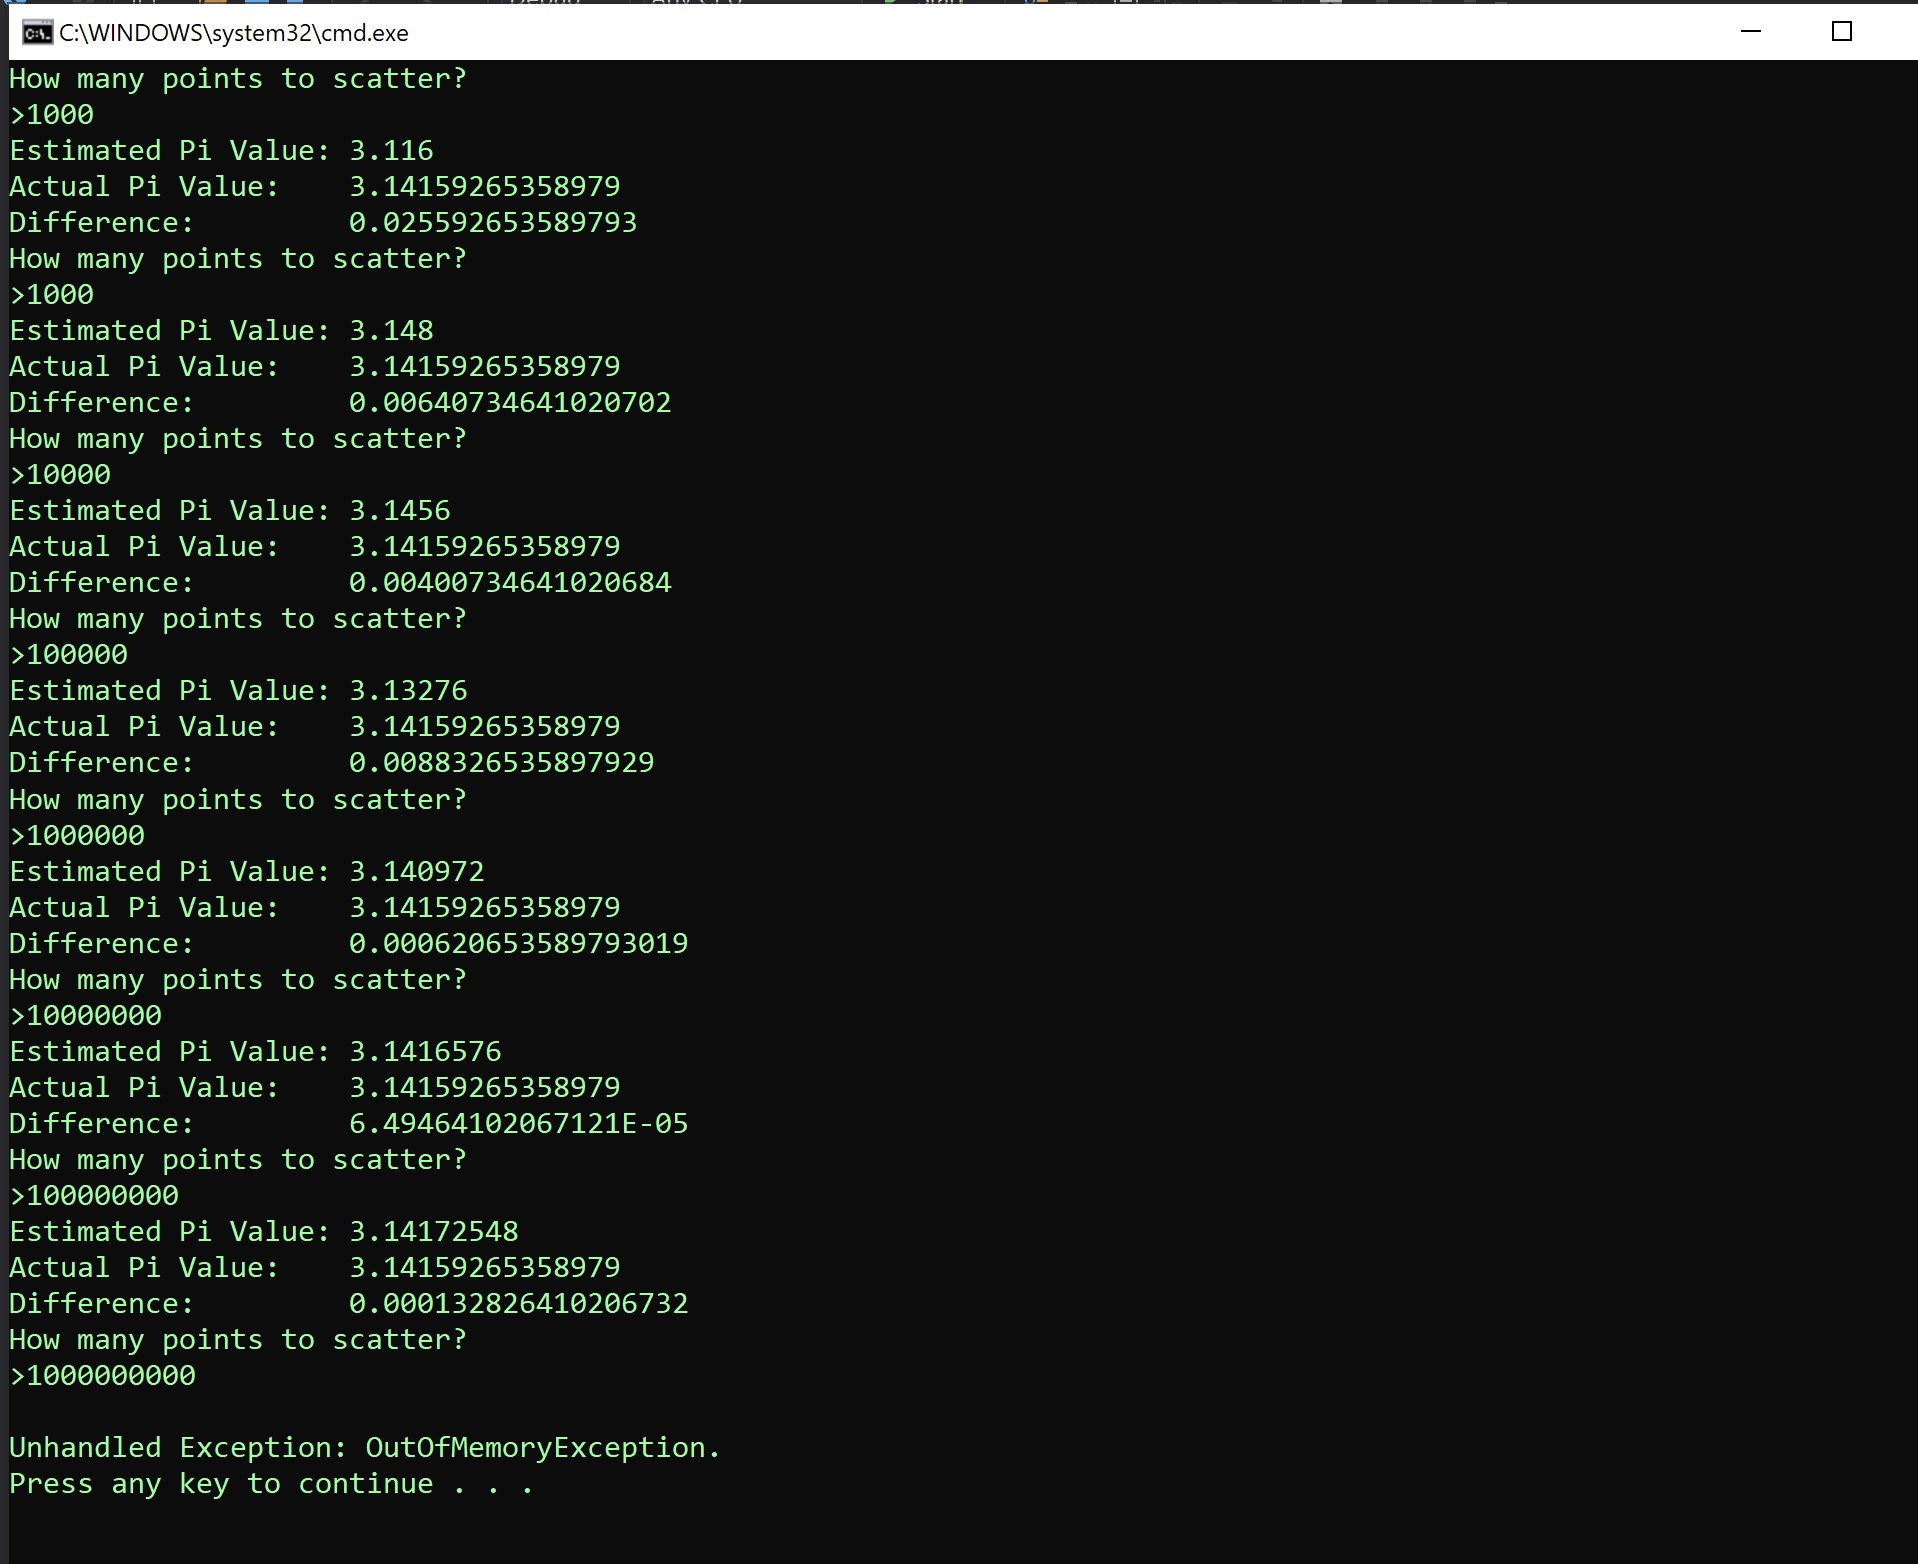
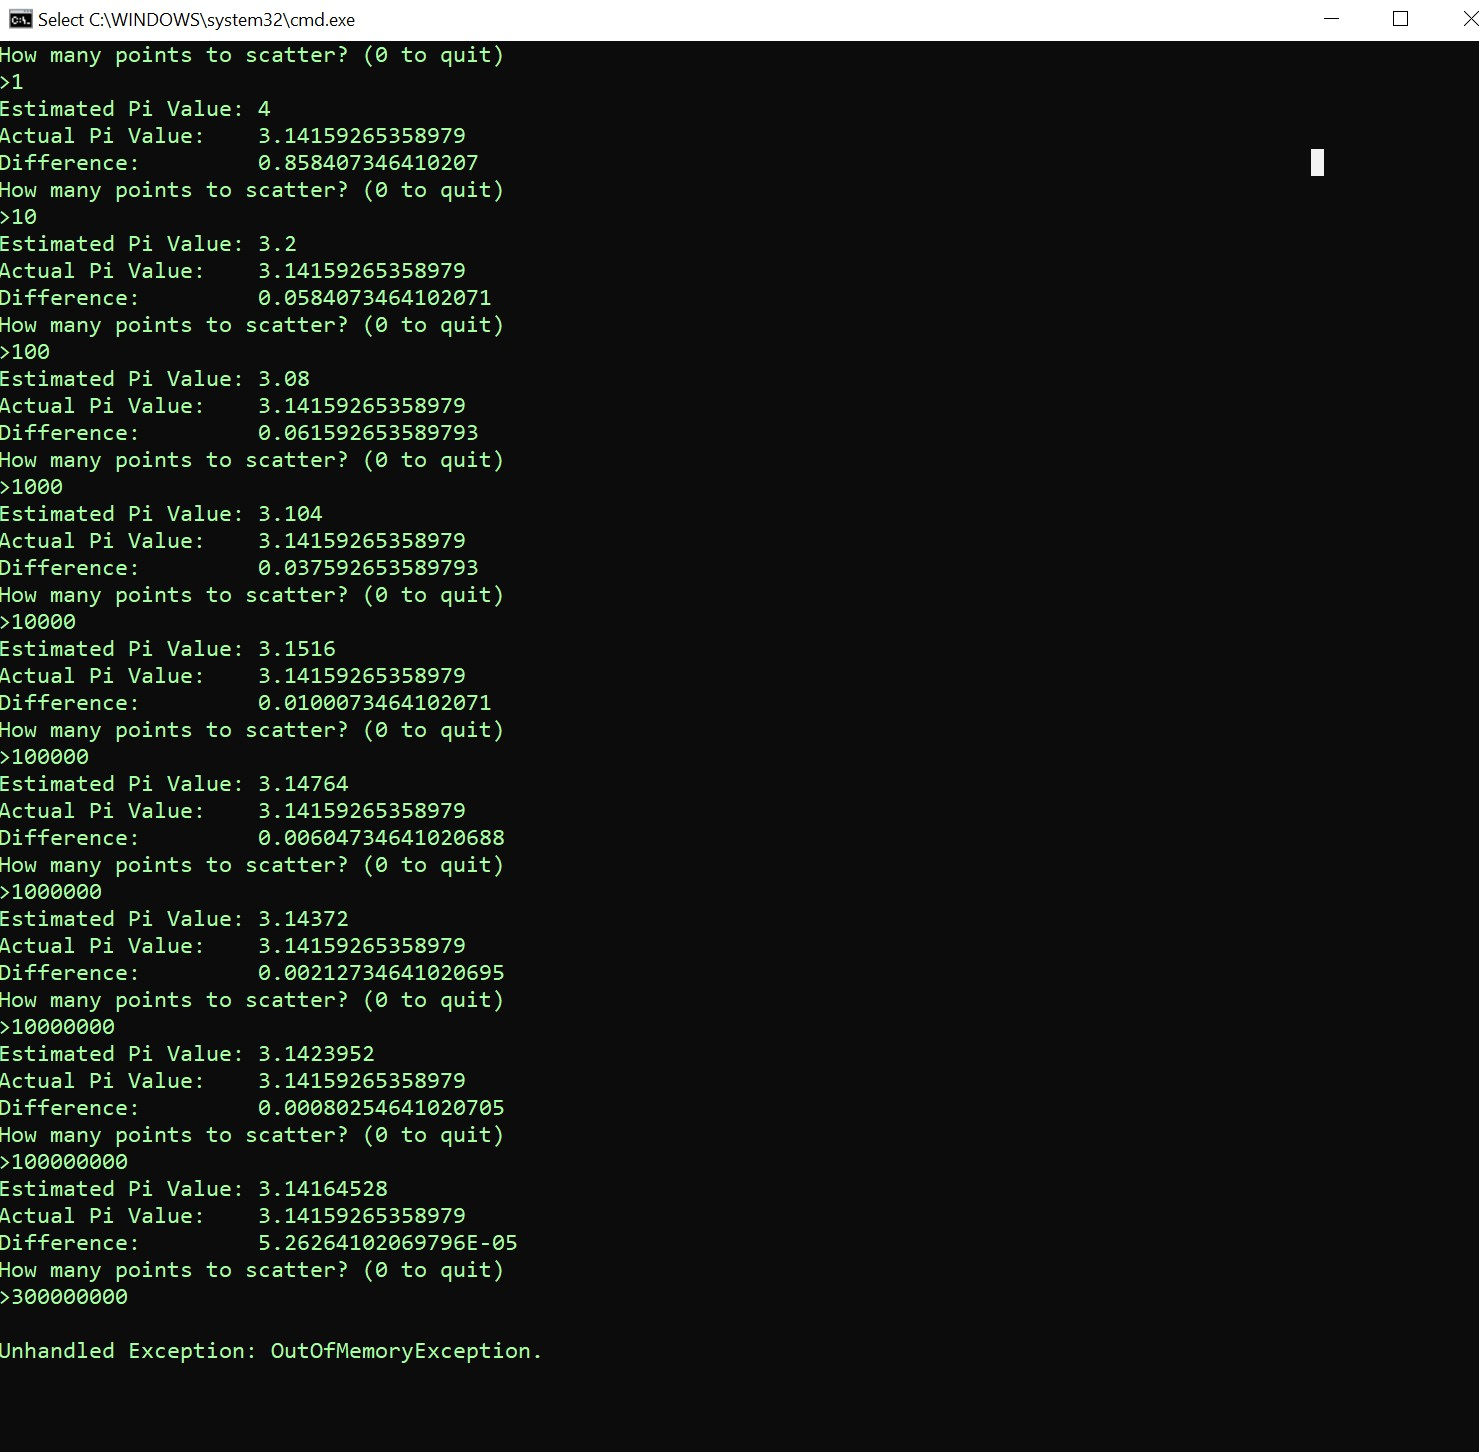
added IEnumerableApproach

Changed region(s): [[0.0, 0.0, 1.0, 1.0], [0.8709, 0.093, 0.902, 0.124]]

diff --git a/PiCalculation/Program.cs b/PiCalculation/Program.cs
@@ -1,8 +1,10 @@
 using System;
 using System.Collections.Generic;
+using System.Diagnostics;
 using System.Linq;
 using System.Text;
 using System.Threading.Tasks;
+using System.Numerics;
 
 namespace PiCalculation
 {
@@ -24,6 +26,8 @@ namespace PiCalculation
             List<string> calculationMethods = new List<string>();
             calculationMethods.Add("Naïve approach (O(N) time, O(N) space: Array N created and iterated)");
             calculationMethods.Add("Space improved (O(N) time, O(1) space)");
+            calculationMethods.Add("Recursion approach (O(N) time, O(N) space, stackoverflow)");
+            calculationMethods.Add("IEnumerable approach (O(N) time, O(1) space)");
             do
             {
                 Console.Clear();
@@ -32,27 +36,6 @@ namespace PiCalculation
 
             } while (!End);
         }
-
-        private static void NaiveApproach()
-        {
-            Console.Clear();
-            //takes one int parameter from the command line and creates an array of that 
-            //length containing randomly initialized coordinates.
-            int numPoints = UI.AcceptValidInt("How many points to scatter?\n>", 1);
-
-            Random rnd = new Random();
-            XYCoord[] points = new XYCoord[numPoints];
-            for (int i = 0; i < numPoints; ++i)
-            {
-                points[i] = new XYCoord(rnd);
-            }
-            //Iterate over the array, incrementing a counter for each coordinate which overlaps the unit circle.
-            double estimatePi = points.Count(p => hypotenuse(p) < 1.0) / (double)numPoints * 4;
-            Console.WriteLine($"Estimated Pi Value: {estimatePi}\n" +
-                              $"Actual Pi Value:    {Math.PI}\n" +
-                              $"Difference:         {Math.Abs(estimatePi - Math.PI)}");
-        }
-
         private static bool HandleSelection(int selected)
         {
             switch (selected)
@@ -60,7 +43,23 @@ namespace PiCalculation
                 case -1:
                     return true;
                 case 0:
+                    Console.Clear();
                     NaiveApproach();
+                    return false;
+                    break;
+                case 1:
+                    Console.Clear();
+                    SpaceSavingApproach();
+                    return false;
+                    break;
+                case 2:
+                    Console.Clear();
+                    RecursionApproach();
+                    return false;
+                    break;
+                case 3:
+                    Console.Clear();
+                    IEnumerableApproach();
                     return false;
                     break;
                 default:
@@ -69,5 +68,206 @@ namespace PiCalculation
             }
 
         }
+
+        private static void IEnumerableApproach()
+        {
+            do
+            {
+                //takes one int parameter from the command line and creates an array of that 
+                //length containing randomly initialized coordinates.
+                Console.Write("Enter how many points per step to print:  \n>");
+                //long numPoints = long.Parse(Console.ReadLine());
+                int step = int.Parse(Console.ReadLine());
+                // Create new stopwatch.
+                Stopwatch stopwatch = new Stopwatch();
+                try
+                {
+                    Random rnd = new Random();
+                    stopwatch.Start();
+
+                    IEnumerable<long> GenerateInsideCount(long n)
+                    {
+                        long inside = 0;
+                        for (long i=0; i<n; ++i)
+                        {
+                            if (hypotenuse(new XYCoord(rnd)) < 1) inside++;
+                            yield return inside;
+                        }
+                    }
+
+                    IEnumerable<(long,long)> GenerateInsideCountAndTotal()
+                    {
+                        long inside = 0;
+                        long total = 0;
+                        while (true)
+                        {
+                            if (hypotenuse(new XYCoord(rnd)) < 1) inside++;
+                            total++;
+                            yield return (inside,total);
+                        }
+                    }
+
+                    int tempcount = 0;
+                    var enumerator = GenerateInsideCountAndTotal().GetEnumerator();
+                    while (enumerator.MoveNext())
+                    {
+                        tempcount++;
+                        if (tempcount==step)
+                        {
+                           double estimatePi = (double)enumerator.Current.Item1 / enumerator.Current.Item2 *4;
+                            //Console.WriteLine(enumerator.Current);
+                           Console.WriteLine($"Estimated Pi Value: {estimatePi}\n" +
+                                             $"Actual Pi Value:    {Math.PI}\n" +
+                                             $"Difference:         {Math.Abs(estimatePi - Math.PI)}\n" +
+                                             $"Elasped time:       {stopwatch.Elapsed.TotalSeconds} seconds\n" +
+                                             $"Points Generated:   {enumerator.Current.Item2}\n" +
+                                             $"================================================================");
+                           tempcount = 0;
+                        }
+                    }
+                    //double ratio = GenerateInsideCount(numPoints).Last() / (double)numPoints;
+                   
+                    /*double estimatePi = ratio * 4;
+
+                    //stop the timer
+                    stopwatch.Stop();
+
+                    Console.WriteLine($"Estimated Pi Value: {estimatePi}\n" +
+                                      $"Actual Pi Value:    {Math.PI}\n" +
+                                      $"Difference:         {Math.Abs(estimatePi - Math.PI)}\n" +
+                                      $"Elasped time:       {stopwatch.Elapsed.TotalMilliseconds} ms");*/
+                }
+                catch (OutOfMemoryException e)
+                {
+                    Console.WriteLine(e.GetType().ToString());
+                }
+            } while (true);
+        }
+
+        private static void RecursionApproach()
+        {
+            do
+            {
+                //takes one int parameter from the command line and creates an array of that 
+                //length containing randomly initialized coordinates.
+                long numPoints = 5000;
+                // Create new stopwatch.
+                Stopwatch stopwatch = new Stopwatch();
+                try
+                {
+                    Random rnd = new Random();
+                    stopwatch.Start();
+
+                    double getratio(long inside, long total, long index)
+                    {
+                        if (index == 0) return (double)inside / total;
+                        else return getratio(inside += (hypotenuse(new XYCoord(rnd)) < 1 ? 1 : 0), total, --index);
+                    }
+
+                    //Iterate over the array, incrementing a counter for each coordinate which overlaps the unit circle.
+                    double estimatePi = getratio(0,numPoints,numPoints) * 4;
+
+                    //stop the timer
+                    stopwatch.Stop();
+
+                    Console.WriteLine($"Estimated Pi Value: {estimatePi}\n" +
+                                      $"Actual Pi Value:    {Math.PI}\n" +
+                                      $"Difference:         {Math.Abs(estimatePi - Math.PI)}\n" +
+                                      $"Elasped time:       {stopwatch.Elapsed.TotalMilliseconds} ");
+                    Console.ReadKey();
+                }
+                catch (OutOfMemoryException e)
+                {
+                    Console.WriteLine(e.GetType().ToString());
+                }
+            } while (false);
+        }
+
+        private static void NaiveApproach()
+        {
+            do
+            {
+                
+                //takes one int parameter from the command line and creates an array of that 
+                //length containing randomly initialized coordinates.
+                int numPoints = UI.AcceptValidInt("How many points to scatter? (0 to quit) \n>", 0);
+                if (numPoints == 0) break;
+                // Create new stopwatch.
+                Stopwatch stopwatch = new Stopwatch();
+                try
+                {
+                    Random rnd = new Random();
+                    stopwatch.Start();
+                    XYCoord[] points = new XYCoord[numPoints];
+                    for (int i = 0; i < numPoints; ++i)
+                    {
+                        points[i] = new XYCoord(rnd);
+                    }
+                    //Iterate over the array, incrementing a counter for each coordinate which overlaps the unit circle.
+                    double estimatePi = points.Count(p => hypotenuse(p) < 1.0) / (double)numPoints * 4;
+
+                    //stop the timer
+                    stopwatch.Stop();
+
+                    Console.WriteLine($"Estimated Pi Value: {estimatePi}\n" +
+                                      $"Actual Pi Value:    {Math.PI}\n" +
+                                      $"Difference:         {Math.Abs(estimatePi - Math.PI)}\n" +
+                                      $"Elasped time:       {stopwatch.Elapsed.TotalMilliseconds} ");
+                }
+                catch (OutOfMemoryException e)
+                {
+                    Console.WriteLine(e.GetType().ToString());
+                }
+            } while (true);
+        }
+
+        private static void SpaceSavingApproach()
+        {
+            do
+            {
+
+                //takes one int parameter from the command line and creates an array of that 
+                //length containing randomly initialized coordinates.
+                int numPoints = UI.AcceptValidInt("How many points to scatter? (0 to quit) \n>", 0);
+
+                if (numPoints == 0) break;
+                // Create new stopwatch.
+                Stopwatch stopwatch = new Stopwatch();
+                try
+                {
+                    Random rnd = new Random();
+                    stopwatch.Start();
+
+                    //BigInteger bigIntFromInt64 = new BigInteger(934157136952);
+
+                    double CountOverLap(int k) => Enumerable.Range(1, k).Aggregate(
+                                    seed: 0,
+                                    func: (count, index) => count + (hypotenuse(new XYCoord(rnd)) < 1 ? 1 : 0),
+                                    resultSelector: count => (double)count );
+
+                      double PointsInCircle = CountOverLap(numPoints);
+
+                     double estimatedPi = PointsInCircle / numPoints * 4.0;
+                    //stop the timer
+
+
+                    //Console.WriteLine($"Estimated Pi Value: {estimatedPi}\n" +
+                    //                  $"Actual Pi Value:    {Math.PI}\n" +
+                    //                  $"Difference:         {Math.Abs(estimatedPi - Math.PI)}\n" +
+                    //                  $"Elasped time:       {stopwatch.Elapsed.TotalMilliseconds} ");
+
+                    Console.WriteLine($"Estimated Pi Value: {estimatedPi}\n" +
+                                      $"Actual Pi Value:    {Math.PI}");
+                    stopwatch.Stop();
+                    Console.WriteLine($"Difference:         {Math.Abs(estimatedPi - Math.PI)}");
+                    Console.WriteLine($"Elasped time:       {stopwatch.Elapsed.TotalMilliseconds} ");
+                }
+                catch (OutOfMemoryException e)
+                {
+                    Console.WriteLine(e.GetType().ToString());
+                }
+            } while (true);
+        }
+
     }
 }
